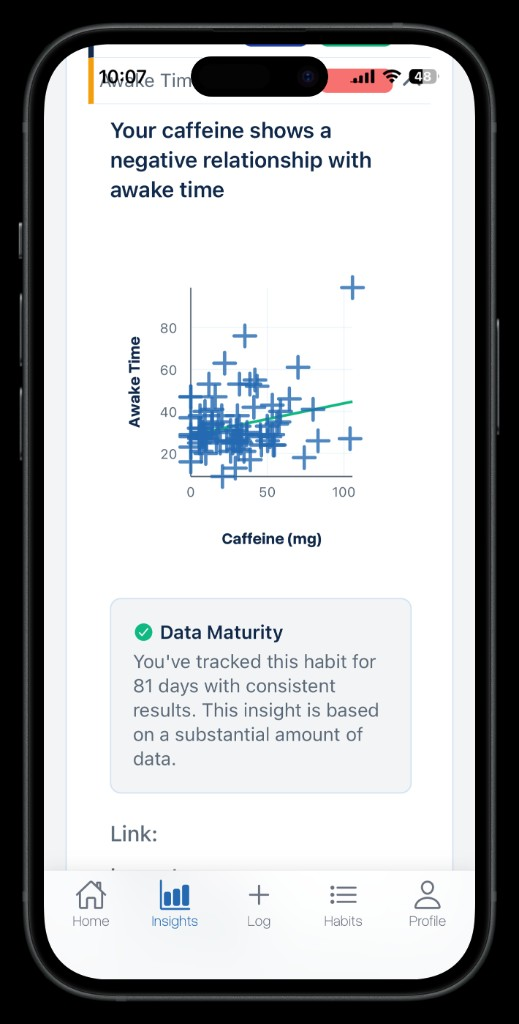
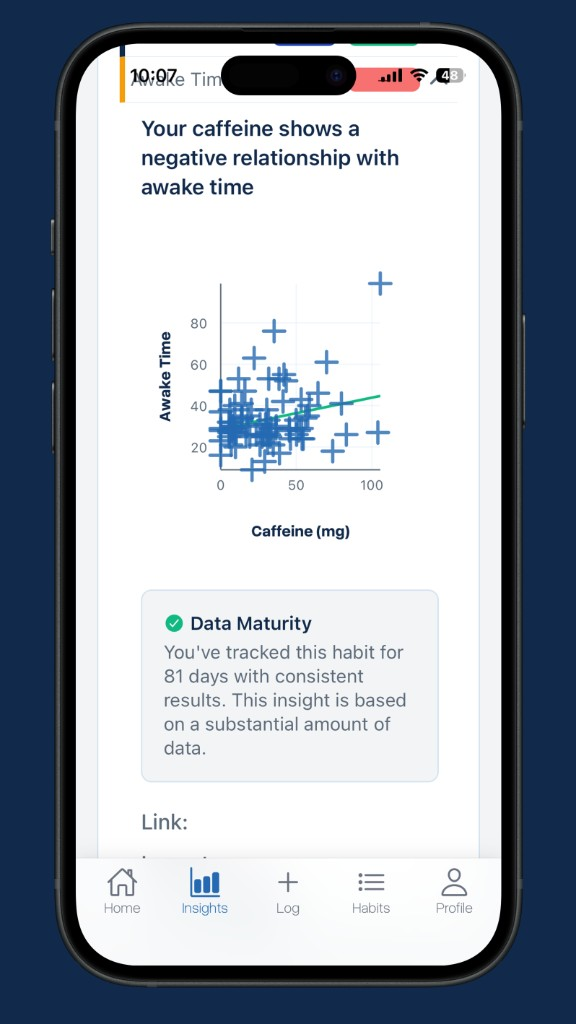
Update hero and correlation renders (Group 1 & 2); neutral frame styles
Replace homepage and correlation-engine PNGs with new assets. Soften hero
and correlation containers to light grey/neutral backgrounds so baked-in
render backgrounds display without double framing.

Made-with: Cursor

diff --git a/css/style.css b/css/style.css
@@ -324,7 +324,8 @@ body {
   overflow: hidden;
   box-shadow: var(--shadow-card);
   border: 1px solid var(--border-app);
-  background: var(--white);
+  /* Matches hero render background (light grey, not white card) */
+  background: #f5f5f5;
 }
 
 .hero__visual img {
@@ -508,10 +509,10 @@ body {
 }
 
 .correlation-frame {
-  background: linear-gradient(145deg, var(--primary-dark) 0%, #1a3d6e 100%);
+  background: var(--background-app);
   border-radius: var(--radius-lg);
-  padding: var(--spacing-xl);
-  border: 3px solid var(--primary-light);
+  padding: var(--spacing-md);
+  border: 1px solid var(--border-app);
   box-shadow: var(--shadow-card);
 }
 
